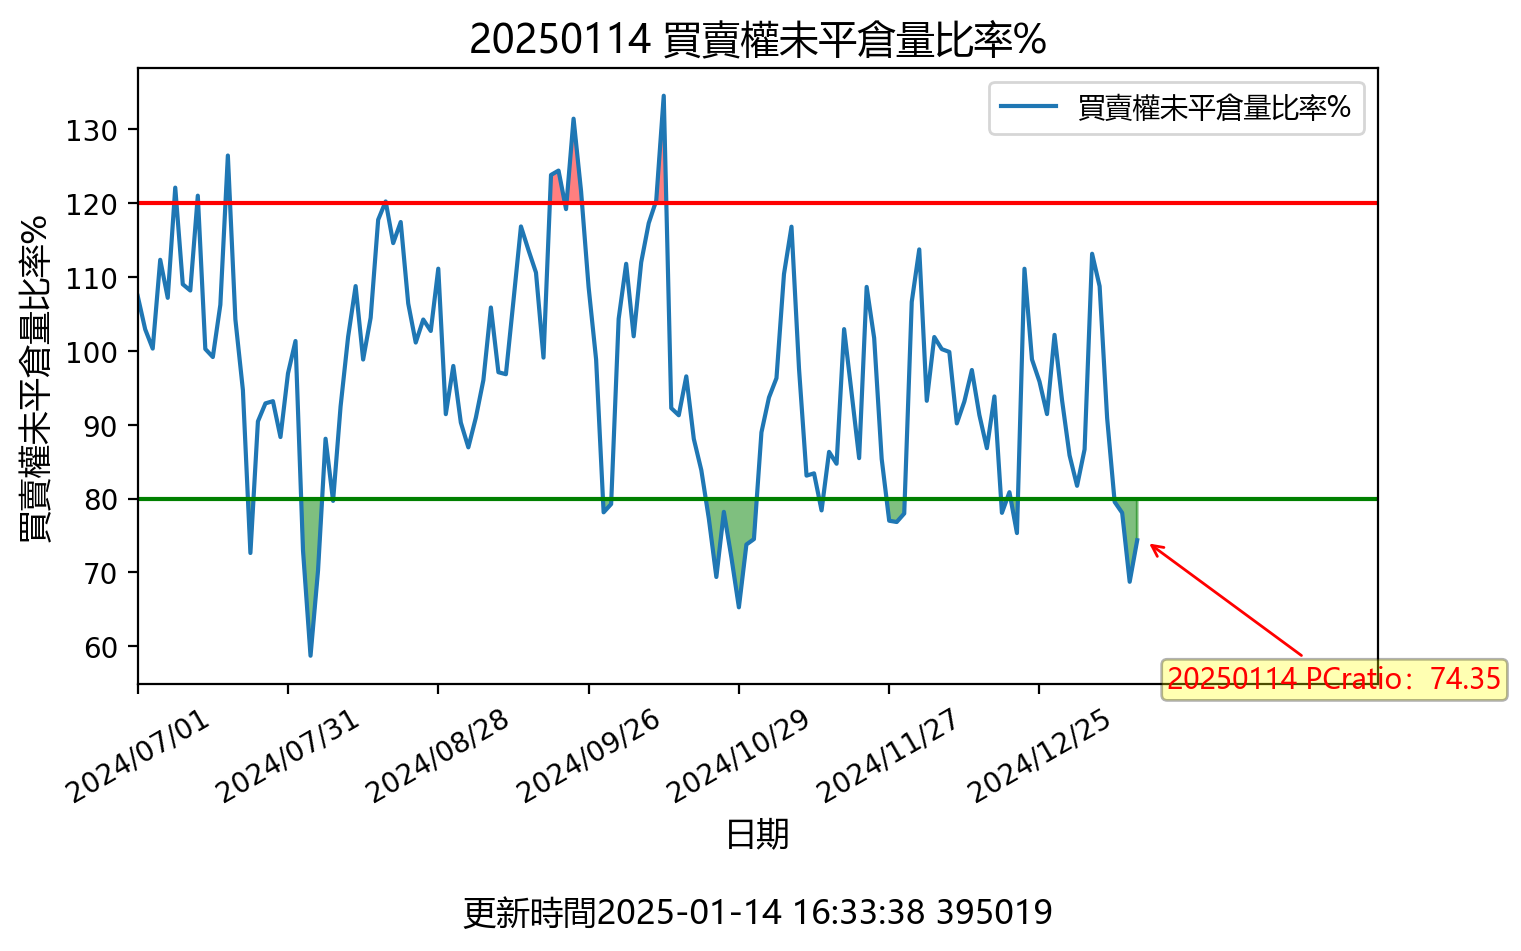
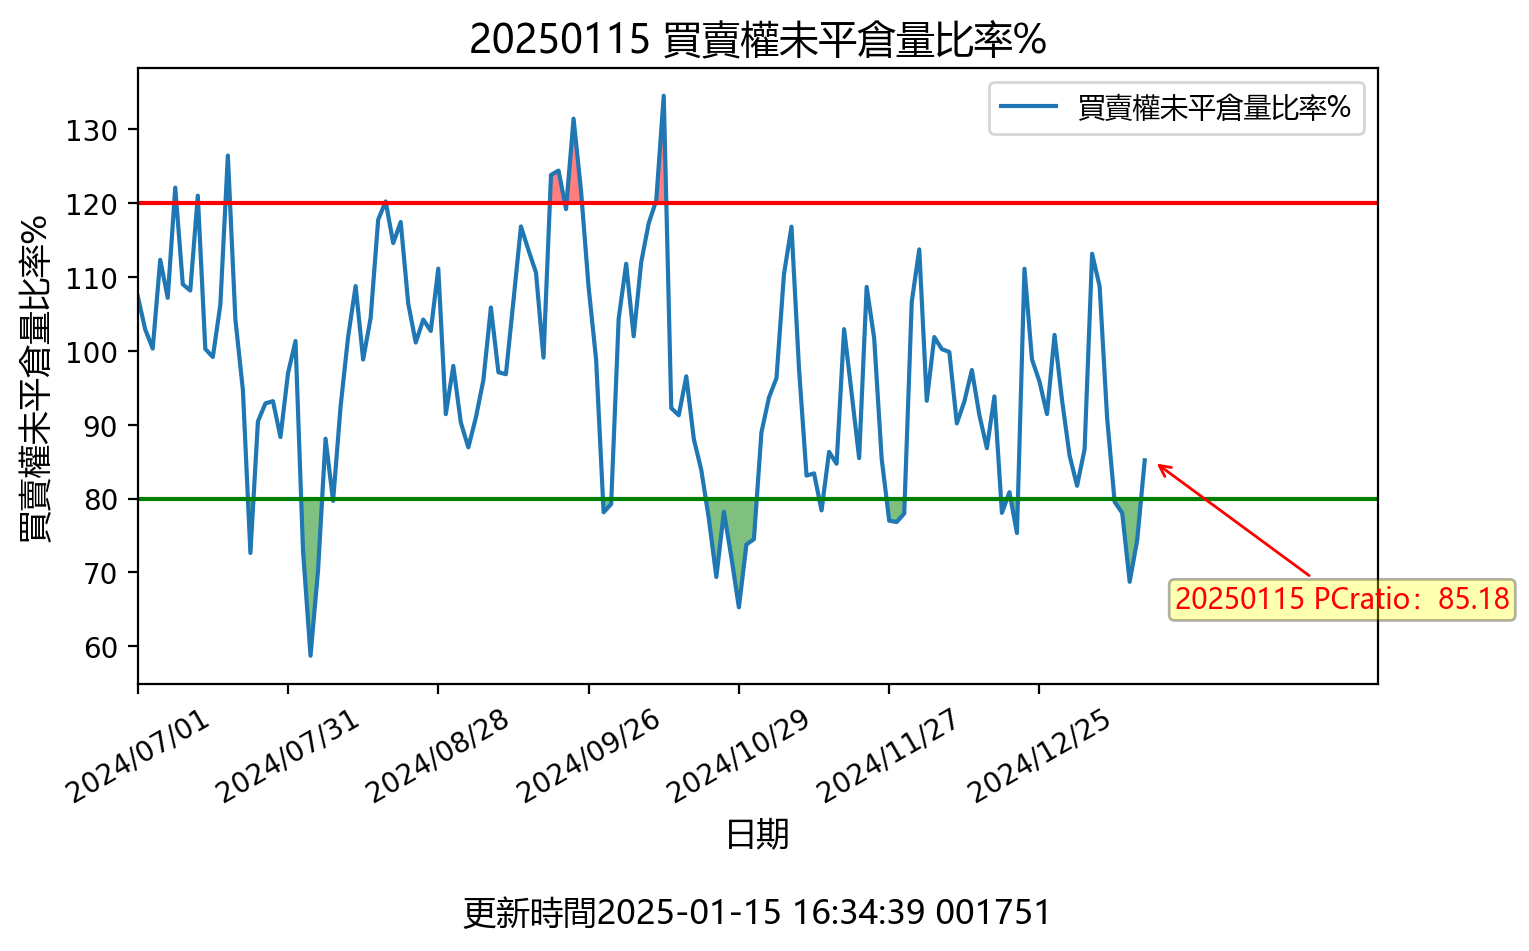
更新時間: Wed Jan 15 16:34:55 CST 2025

diff --git a/README.md b/README.md
@@ -1,12 +1,12 @@
-## 20250114 台指期「預估換倉成本」
+## 20250115 台指期「預估換倉成本」
 ![](images/txfcost.png)
 
-## 20250114 台指期「散戶小台多空比」
+## 20250115 台指期「散戶小台多空比」
 ![](images/bbiri.png)
 
-## 20250114 台指選擇權「Put/Call Ratios」
+## 20250115 台指選擇權「Put/Call Ratios」
 ![](images/pcratio.png)
 
-## 20250114 台指期「大額交易人」
+## 20250115 台指期「大額交易人」
 ![](images/blocktrade.png)
 
